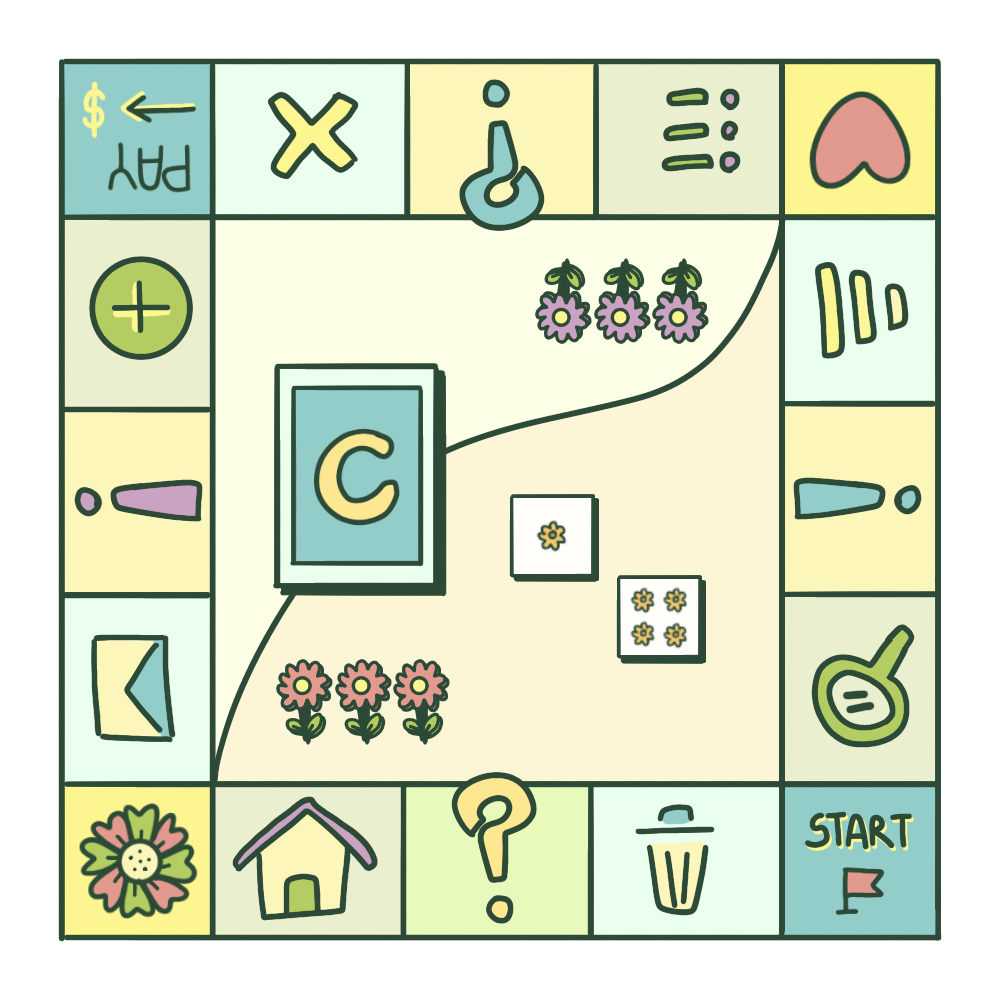
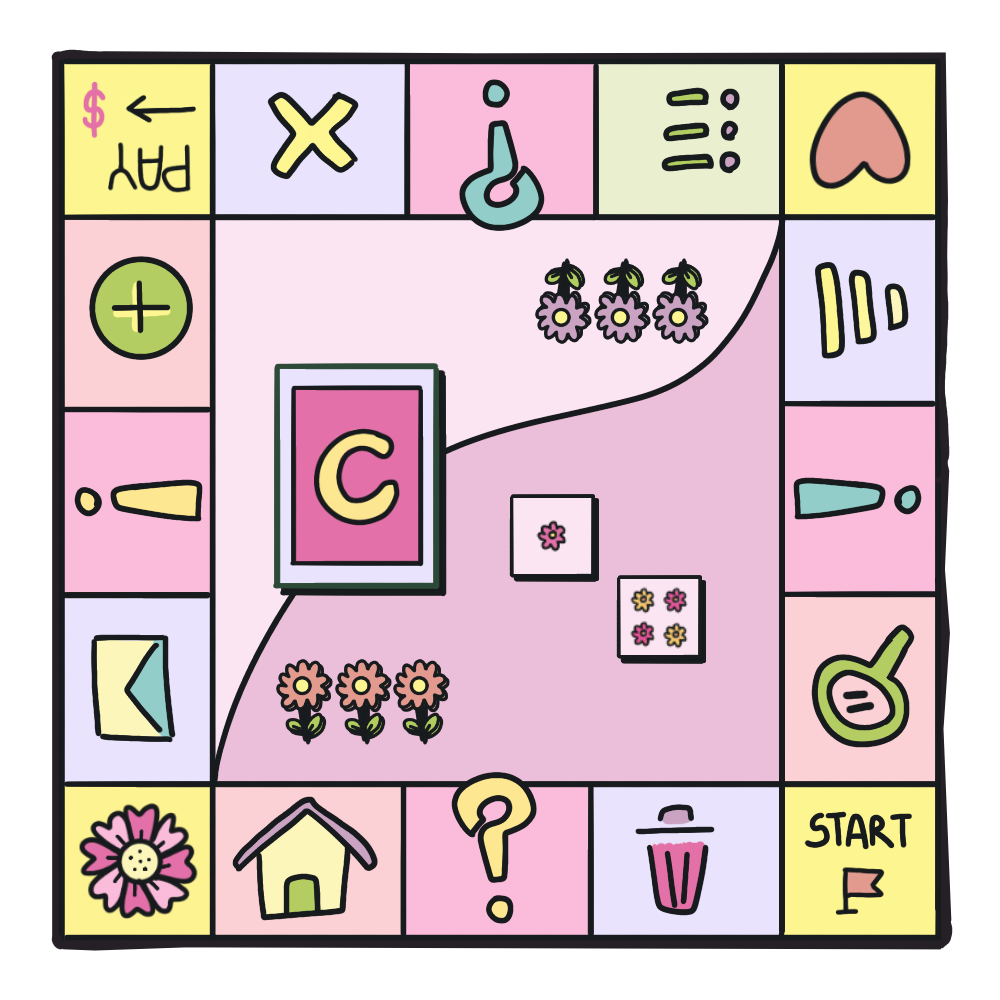
edit cl style and pic

diff --git a/style.css b/style.css
@@ -100,14 +100,14 @@ ul{
     right: 32px;
     font-size: 2rem;
     text-decoration: none;
-    background-color: #FB5FAB;
+    background-color: var(--ws-total-color-0);
     color: #FFFFFF;
     padding: 8px 16px;
     border-radius: 50%;
     transition: all 0.3s ease-in-out;
 }
 .arrow-up:hover {
-    background-color: #EA559D;
+    background-color: var(--ws-total-color-1);
 }
 
 body.scrolled .arrow-up {
@@ -126,8 +126,8 @@ body.scrolled .arrow-up {
     flex-direction: row;
     justify-content: space-between;
     z-index: 100;
-    border-bottom: 1px solid #e6e8ea;
-    background-color: #FFFFFF;
+    border-bottom: 1px solid var(--ws-total-color-5);
+    background-color: var(--ws-total-color-4);
 }
 
 #container{
@@ -157,10 +157,10 @@ body.scrolled .arrow-up {
 
 .nevMenu ul a{
     font-size: 1.25rem;
-    color: #343A40;
+    color: var(--ws-total-color-6);
 }
 .nevMenu ul a:hover{
-    color: #EA559D;
+    color: var(--ws-total-color-1);
     font-weight: 600;
 }
 
@@ -174,7 +174,7 @@ body.scrolled .arrow-up {
     margin-bottom:  160px;
 }
 .personalProfileContainer h1{
-    color: #EA559D;
+    color: var(--ws-total-color-1);
 }
 
 .personalProfileContainer img{
@@ -203,15 +203,15 @@ h3 span{
 
 }
 .workLabelStyle{
-    border: 2px solid #EA559D;
+    border: 2px solid var(--ws-total-color-1);
     padding: 0.5em 1.5em;
     border-radius: 50px;
-    color: #EA559D;
+    color: var(--ws-total-color-1);
 }
 
 .workLabelStyle:hover{
-    background-color: #EA559D;
-    color: #FFFFFF;
+    background-color: var(--ws-total-color-1);
+    color: var(--ws-total-color-4);
 }
 
 /* Slide*/
@@ -251,7 +251,7 @@ h3 span{
     border-radius: 50%;
     background-color: rgba(255, 255, 255, 0.8);
     box-shadow: rgba(99, 99, 99, 0.2) 0px 2px 8px 0px;
-    color: #FB5FAB;
+    color: var(--ws-total-color-0);
     font-weight: bold;
     font-size: 18px;
     transition: 0.6s ease;
@@ -266,9 +266,9 @@ h3 span{
     padding-right: 2px;
 }
 .prev:hover, .next:hover {
-    background-color: #FB5FAB;
+    background-color: var(--ws-total-color-0);
     box-shadow: rgba(149, 157, 165, 0.2) 0px 8px 24px;
-    color: #FFFFFF;
+    color: var(--ws-total-color-4);
 }
 .allDot{
     display: flex;
@@ -286,7 +286,7 @@ h3 span{
     cursor: pointer;
     height: 12px;
     width: 12px;
-    background: #FCEEF5;
+    background: var(--ws-total-color-3);
     border-radius: 50%;
     display: inline-block;
     transition: background-color 0.6s ease;
@@ -303,7 +303,7 @@ h3 span{
     position: relative;
     text-align: center;
     background-color: rgb(0, 0, 0);
-    color: #FFFFFF;
+    color: var(--ws-total-color-4);
     border-radius: 8px;
 }
 
@@ -628,11 +628,11 @@ h3 span{
 }
 
 .labelStyleColor1{
-    border-color: #c1cd9e;
-    background-color: rgba(253, 246, 144, 0.2);
+    border-color: var(--ws-total-color-0);
+    background-color: hsla(330, 77%, 91%, 0.5);
 }
 .labelStyleColor2{
-    border-color: #92cdc9;
+    border-color: #518fa8;
     background-color: rgba(146, 205, 201, 0.2);
 }
 .labelStyleColor3{
